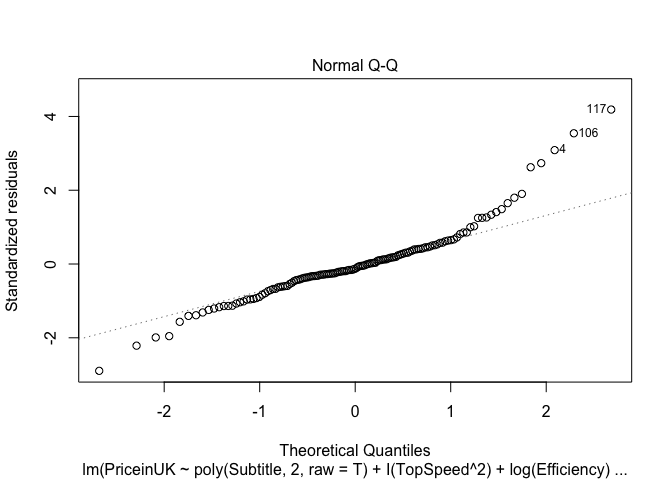
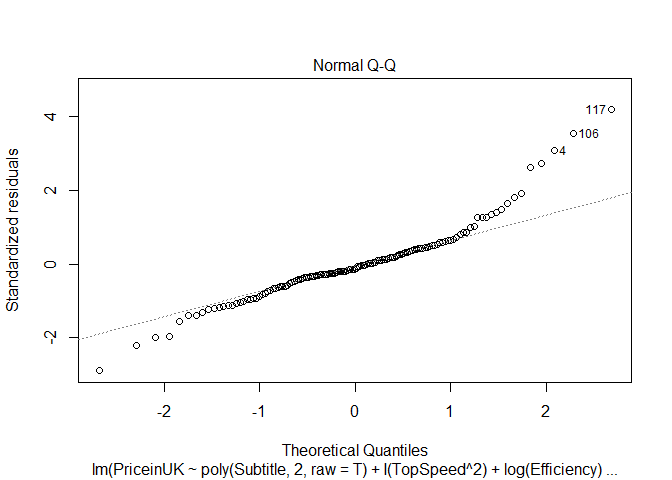
Attempted to add some stuff with PriceinGermany as the response

diff --git a/draft.md b/draft.md
@@ -1,6 +1,6 @@
 Draft
 ================
-2022-04-16
+2022-04-19
 
 ``` r
 library(car)
@@ -322,12 +322,118 @@ This process has resulted in the following model:
 
 $$
 \\begin{align\*}
-\\frac{1}{\\sqrt{\\texttt{PriceinUK}}} = & \\beta\_0\\\\
-+& \\beta\_1 \\texttt{Subtitle} \\\\
-+& \\beta\_2 \\texttt{Subtitle}^2 \\\\
-+& \\beta\_3 \\texttt{TopSpeed}^2 \\\\
-+& \\beta\_4 \\ln \\texttt{Efficiency} \\\\
-+& \\beta\_5 \\ln \\texttt{NumberofSeats} \\\\
+\\frac{1}{\\sqrt{\\texttt{PriceinUK}}} = & \\beta_0\\\\
++& \\beta_1 \\texttt{Subtitle} \\\\
++& \\beta_2 \\texttt{Subtitle}^2 \\\\
++& \\beta_3 \\texttt{TopSpeed}^2 \\\\
++& \\beta_4 \\ln \\texttt{Efficiency} \\\\
++& \\beta_5 \\ln \\texttt{NumberofSeats} \\\\
 +& \\epsilon
 \\end{align\*}
 $$
+
+# Alternative Model
+
+It is important to note that there is an alternative response in the
+dataset: `PriceinGermany`. The same process will be repeated as with
+`PriceinUK`.
+
+## Scatterplot Matrix
+
+``` r
+(PriceinGermany ~ .) %>%
+  pairs(
+    data %>%
+      select_if(is.numeric) %>%
+      select(-c("PriceinUK", "Range", "Acceleration", "FastChargeSpeed"))
+  )
+```
+
+![](draft_files/figure-gfm/unnamed-chunk-10-1.png)<!-- -->
+
+Apart from `NumberofSeats`, there seems to be a positive linear
+relationship with the response and `Subtitle` and `TopSpeed`.
+`PriceinGermany` and `Efficiency` seems to have a positive relationship,
+but not a constant variance.
+
+## Alternative Reduced Model
+
+In order to get the desired subset, we will drop the null values from
+the desired columns.
+
+``` r
+lm_data2 <- data %>%
+  select(-c("Acceleration", "Range", "FastChargeSpeed", "PriceinUK")) %>%
+  drop_na()
+```
+
+Now the full alternative model will be fit.
+
+``` r
+lm4 <- (PriceinGermany ~ Subtitle + TopSpeed + Efficiency + NumberofSeats + Drive) %>%
+  lm(lm_data2) %>%
+  step(
+    trace = 0,
+    k = lm_data2 %>% nrow %>% log
+  )
+
+lm4 %>%
+  summary
+```
+
+    ## 
+    ## Call:
+    ## lm(formula = PriceinGermany ~ TopSpeed + Efficiency, data = lm_data2)
+    ## 
+    ## Residuals:
+    ##    Min     1Q Median     3Q    Max 
+    ## -42290  -7658  -1972   5802 132089 
+    ## 
+    ## Coefficients:
+    ##               Estimate Std. Error t value Pr(>|t|)    
+    ## (Intercept) -101515.26   11255.42  -9.019 4.65e-16 ***
+    ## TopSpeed        590.17      35.25  16.741  < 2e-16 ***
+    ## Efficiency      287.50      45.63   6.301 2.58e-09 ***
+    ## ---
+    ## Signif. codes:  0 '***' 0.001 '**' 0.01 '*' 0.05 '.' 0.1 ' ' 1
+    ## 
+    ## Residual standard error: 19440 on 165 degrees of freedom
+    ## Multiple R-squared:  0.6514, Adjusted R-squared:  0.6472 
+    ## F-statistic: 154.2 on 2 and 165 DF,  p-value: < 2.2e-16
+
+``` r
+lm4 %>%
+  plot(which = 1:2)
+```
+
+![](draft_files/figure-gfm/unnamed-chunk-12-1.png)<!-- -->![](draft_files/figure-gfm/unnamed-chunk-12-2.png)<!-- -->
+
+Since the Residuals vs Fitted Values plot seems to fan out, there also
+does not seem to be a constant variance. This indicates that not all of
+the assumptions are met.
+
+## Possible Transformations
+
+We now use box-cox to find a transformation of the response.
+
+``` r
+lm4 %>%
+  powerTransform %>%
+  summary
+```
+
+    ## bcPower Transformation to Normality 
+    ##    Est Power Rounded Pwr Wald Lwr Bnd Wald Upr Bnd
+    ## Y1   -0.2331       -0.33      -0.4386      -0.0275
+    ## 
+    ## Likelihood ratio test that transformation parameter is equal to 0
+    ##  (log transformation)
+    ##                            LRT df     pval
+    ## LR test, lambda = (0) 5.008578  1 0.025222
+    ## 
+    ## Likelihood ratio test that no transformation is needed
+    ##                            LRT df       pval
+    ## LR test, lambda = (1) 134.5368  1 < 2.22e-16
+
+This seems to indicate that an inverse cube root transformation may
+help.
